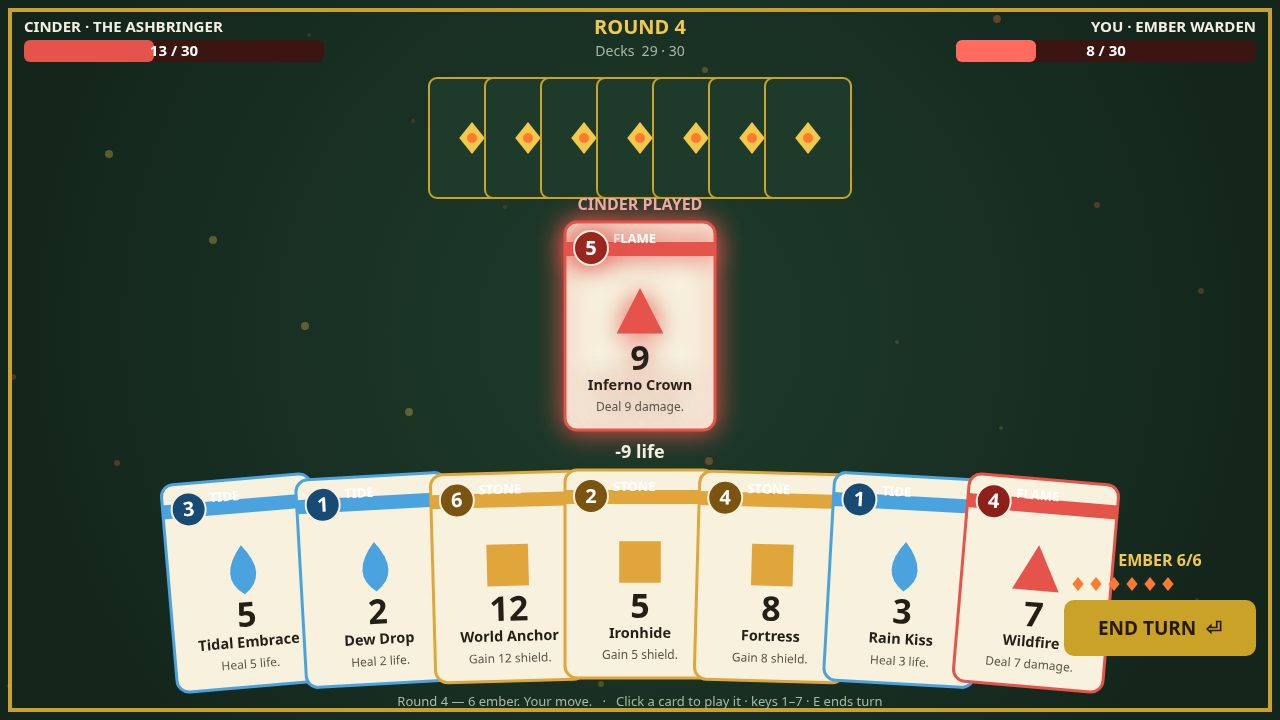
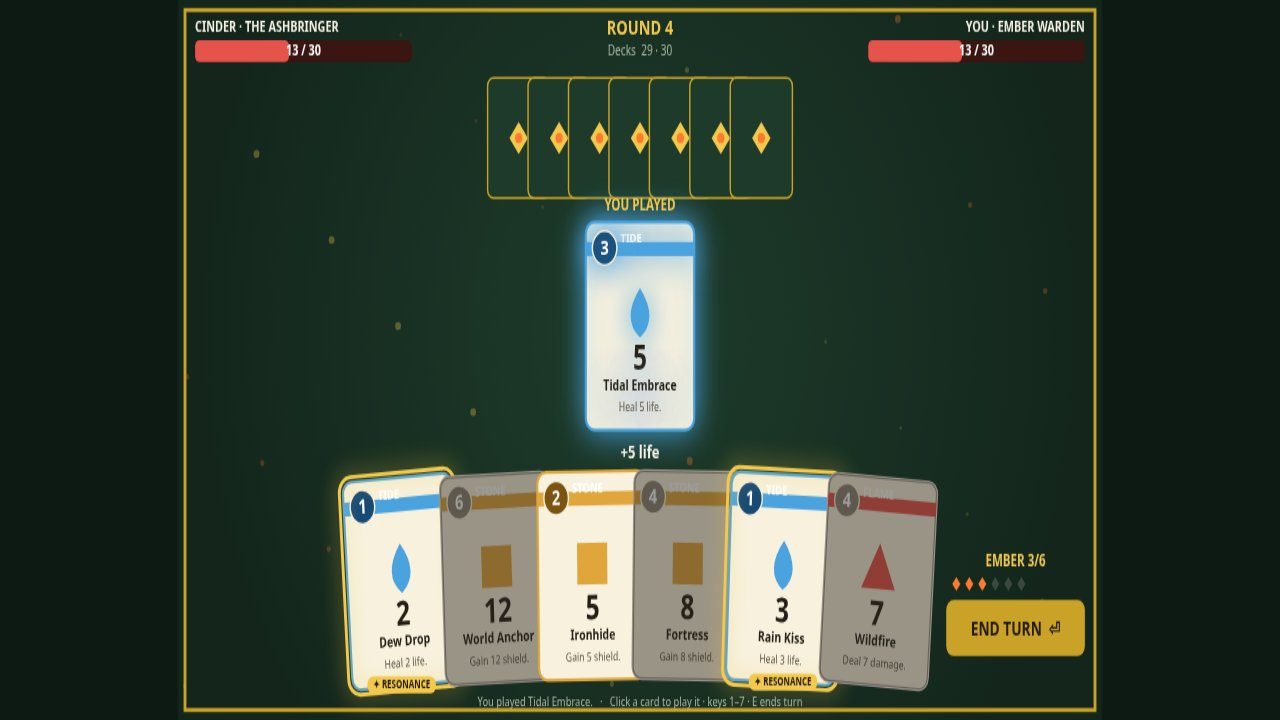
Emberfall Duel: show the Resonance rule before the player chooses
During your turn, a card whose suit matches the last card you played
earns +2 — now it is ringed in gold with a small RESONANCE tag under
the card, so the rule is visible while the choice is still open
(the stage already announced it only after a card landed).

The table screenshot scene now plays one card first (preferring a
suit that still sits in the hand) so the hint has something to light
up: startRound() resets lastSuit, and a frame stopped right at the
round's start would show no hint. Screenshots regenerated from the
fixed code.

diff --git a/game/src/render.js b/game/src/render.js
@@ -324,6 +324,37 @@ export function createRenderer(canvas) {
         tilt: hovered ? 0 : rect.tilt,
         disabled: state.phase === 'player' && state.you.hand[i].cost > state.you.ember,
       });
+      // Resonance hint: on your turn, a card whose suit matches the last card you
+      // played earns +2 — ring it in gold and tag it, before you choose. The stage
+      // already announces Resonance after a card lands; this shows the same rule
+      // while the choice is still open.
+      if (state.phase === 'player' && state.you.lastSuit !== null && state.you.hand[i].suit === state.you.lastSuit) {
+        ctx.save();
+        ctx.translate(rect.x + rect.w / 2, y + rect.h / 2);
+        if (!hovered && rect.tilt) ctx.rotate(rect.tilt);
+        ctx.translate(-rect.w / 2, -rect.h / 2);
+        ctx.shadowColor = PALETTE.gold;
+        ctx.shadowBlur = 18;
+        ctx.lineWidth = 4;
+        ctx.strokeStyle = PALETTE.gold;
+        roundRect(ctx, -5, -5, rect.w + 10, rect.h + 10, 16);
+        ctx.stroke();
+        ctx.restore();
+        const label = '✦ RESONANCE';
+        ctx.font = `bold 11px ${FONT}`;
+        const tagW = ctx.measureText(label).width + 16;
+        const tagX = rect.x + rect.w / 2 - tagW / 2;
+        const tagY = y + rect.h - 9;
+        ctx.fillStyle = PALETTE.gold;
+        roundRect(ctx, tagX, tagY, tagW, 17, 8);
+        ctx.fill();
+        ctx.fillStyle = PALETTE.buttonText;
+        ctx.textAlign = 'center';
+        ctx.textBaseline = 'middle';
+        ctx.fillText(label, rect.x + rect.w / 2, tagY + 9);
+        ctx.textAlign = 'left';
+        ctx.textBaseline = 'alphabetic';
+      }
       if (hovered) {
         ctx.font = `bold 13px ${FONT}`;
         ctx.textAlign = 'center';

diff --git a/game/src/shots.js b/game/src/shots.js
@@ -62,6 +62,25 @@ export function stageShot(name, duel) {
   if (name === 'table') {
     duel.startDuel();
     playUntil(duel, true, (d) => d.state.phase === PHASE_PLAYER && d.state.round >= 4);
+    // Play one card first: startRound() resets lastSuit, so a frame stopped right
+    // at the round's start would have no Resonance hint to show. Prefer a card
+    // whose suit still sits in the hand afterwards, so the gold ring lands on a
+    // real card and the frame shows the rule in action.
+    if (duel.state.phase === PHASE_PLAYER) {
+      const hand = duel.state.you.hand;
+      const counts = {};
+      for (const card of hand) counts[card.suit] = (counts[card.suit] ?? 0) + 1;
+      let pick = -1;
+      for (let i = 0; i < hand.length; i += 1) {
+        if (hand[i].cost <= duel.state.you.ember && counts[hand[i].suit] >= 2) { pick = i; break; }
+      }
+      if (pick === -1) {
+        for (let i = 0; i < hand.length; i += 1) {
+          if (hand[i].cost <= duel.state.you.ember) { pick = i; break; }
+        }
+      }
+      if (pick !== -1) duel.playCard(pick);
+    }
     return { screen: SCREEN_PLAY };
   }
   if (name === 'win') {
